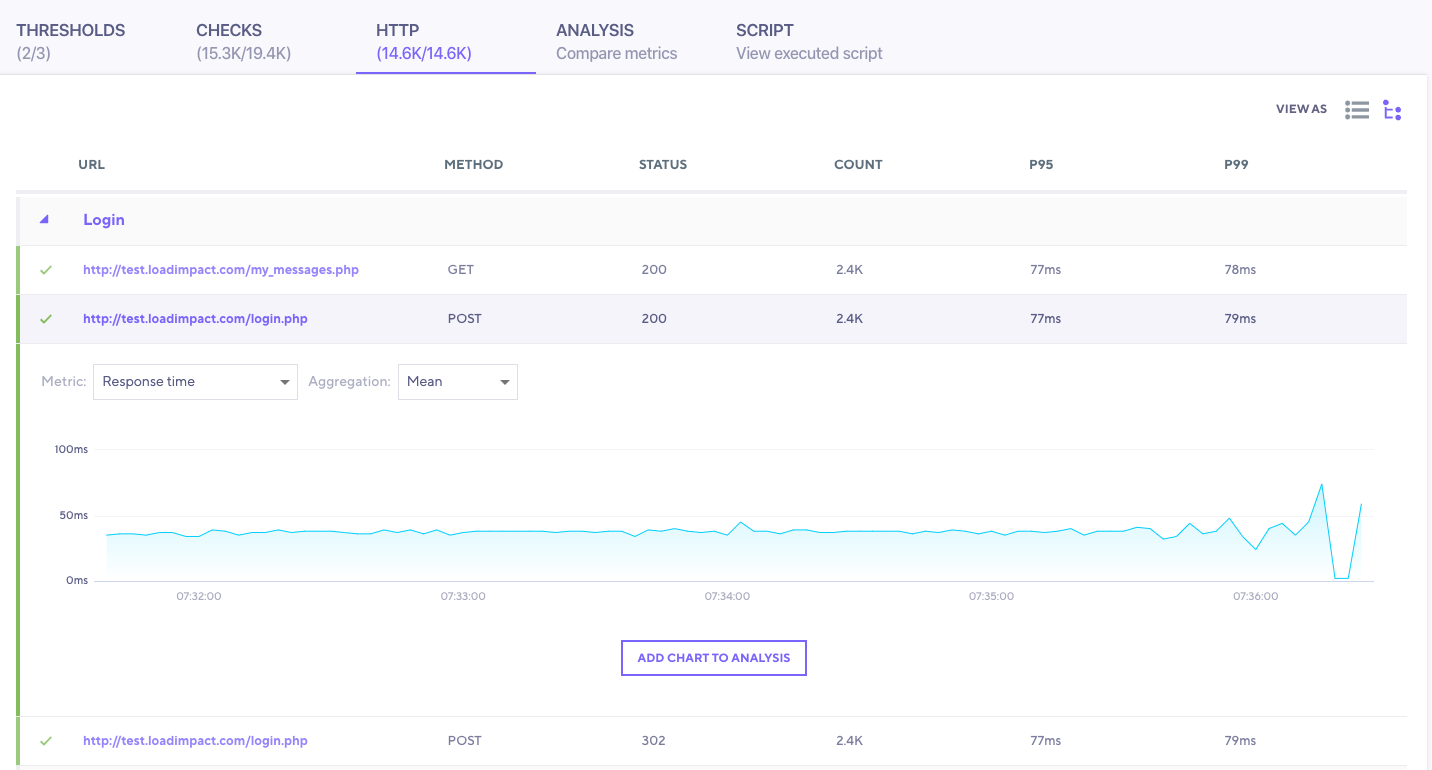
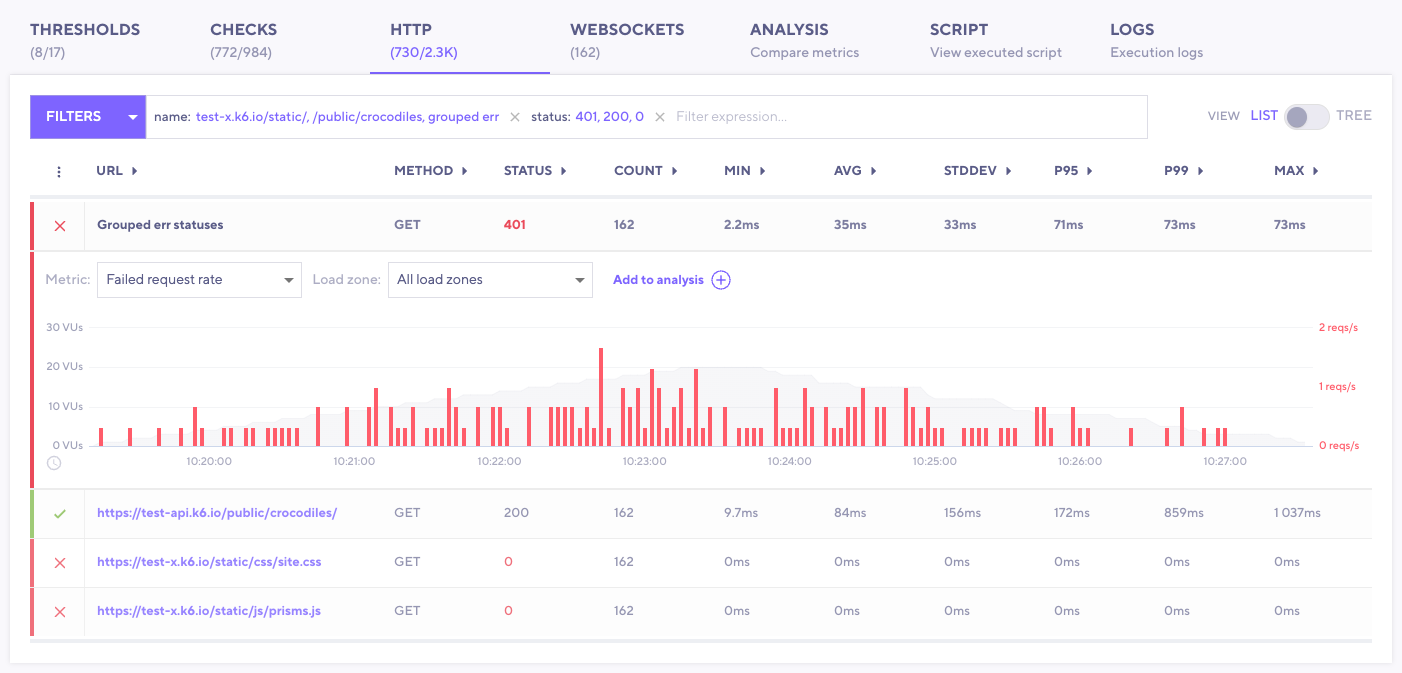
[docs] Update http tab cloud docs page.

diff --git a/src/data/markdown/docs/03 cloud/02 Analyzing Results/05 HTTP Tab.md b/src/data/markdown/docs/03 cloud/02 Analyzing Results/05 HTTP Tab.md
@@ -5,7 +5,8 @@ excerpt: 'The HTTP tab allows you to inspect individual requests in your k6 test
 
 ## Cloud Results: HTTP Tab
 
-The HTTP Tab allows you to inspect individual HTTP requests made in your test. The number in the tab represents total passing HTTP Requests / total HTTP Requests. This provides a quick hint to any failing requests. Displayed in the tab will be a row for each HTTP request by resource, method used, and status code returned. If an endpoint has multiple request methods or status codes, we separate them. Note the login endpoint which was requested via a POST but has had two different status codes returned, 200 and 302.
+The HTTP Tab allows you to inspect individual HTTP requests made in your test. The number in the tab represents total passing HTTP Requests / total HTTP Requests. This provides a quick hint to any failing requests. Displayed in the tab will be a row for each HTTP request by resource, by test scenario, method used, status code returned. If an endpoint has multiple request methods or status codes, we separate them.
+In our example here we have applied a filter to the list to only show a set of the result, this can be particularly useful when analyzing the result.
 
 On this tab, we can easily see `HTTP` requests that have failures. Take notice of the &#10003; on the left of each row. If we had failures they would be marked with a &#10005;
 
@@ -13,8 +14,16 @@ On this tab, we can easily see `HTTP` requests that have failures. Take notice o
 
 When you click on a row to expand, you can also:
 
-- View additional metrics for the request, such as time spent handshaking
-- Change the aggregation (Mean, Median, Min, Max, Std Deviation, or 95th percentile)
+- View additional metrics for the request
+- Some options also allow changing of aggregation
 - Add the chart (plus additional metrics) to the Analysis tab
 
-![HTTP Tab](./images/05-HTTP-Tab/http-tab-graph.png)
+![HTTP Tab breakdown chart](./images/05-HTTP-Tab/http-tab-graph.png)
+
+The HTTP tab can be displayed in two separate "display modes", list layout and tree layout. The list view displays a flat list of entries aggregating "similar entries (with same value for labels name, status, method, expected_response)" while the tree view visually groups entries by the scenario and group the request was executed.
+
+![HTTP Tab tree view](./images/05-HTTP-Tab/http-tab-tree.png)
+
+The columns that are displayed in the results table is customizable, columns can be hidden or added (choose from a fixed set of fields). Selecting which ones to display can be changed by clicking the "vertical ellipsis" icon left of the URL column.
+
+![HTTP Tab columns](./images/05-HTTP-Tab/http-tab-columns.png)
